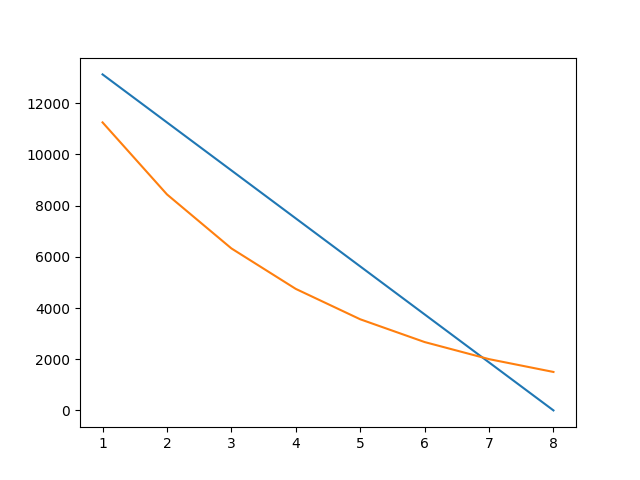
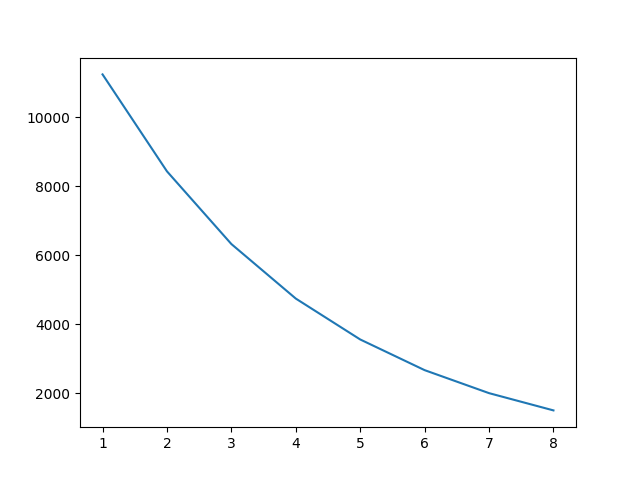
Файлы лаба3

diff --git a/main.py b/main.py
@@ -251,7 +251,112 @@ import os
 Sec_Korneev_2=os.environ['Sec_Korneev_2']
 print(Sec_Korneev_2)
 
+#Задание 2 (вариант 6)
+from sympy import *
 
-import os
-Sec_Korneev_3=os.environ['Sec_Korneev_3']
-print(Sec_Korneev_3)
+k, T, C, L = symbols('k C T L')
+
+C_ost_4 = 15000
+Am_lst_4 = []
+C_ost_lst_4 = []
+for i in range(8):
+    Am = (C - L) / T
+    C_ost_4 -= Am.subs({C: 15000, T: 8, L: 0})
+    Am_lst_4.append(round(Am.subs({C: 15000, T: 8, L: 0}), 2))
+    C_ost_lst_4.append(round(C_ost_4, 2))
+print('Am_lst_4:', Am_lst_4)
+print('C_ost_lst_4:', C_ost_lst_4)
+
+#2-ой способ 
+Aj = 0
+C_ost_4 = 15000
+Am_lst_2_4 = []
+C_ost_lst_2_4 = []
+for i in range(8):
+    Am = k * 1 / T * (C - Aj)
+    C_ost_4 -= Am.subs({C: 15000, T: 8, k: 2})
+    Am_lst_2_4.append(round(Am.subs({C: 15000, T: 8, k: 2}), 2))
+    Aj += Am
+    C_ost_lst_2_4.append(round(C_ost_4, 2))
+print('Am_lst_2_4:', Am_lst_2_4)
+print('C_ost_lst_2_4:', C_ost_lst_2_4)
+
+#Таблица 
+import pandas as pd
+
+Y = range(1, 9)
+table1 = list(zip(Y, C_ost_lst_4, Am_lst_4))
+table2 = list(zip(Y, C_ost_lst_2_4, Am_lst_2_4))
+tframe = pd.DataFrame(table1, columns=['Y', 'C_ost_lst_4', 'Am_lst_4'])
+tframe2 = pd.DataFrame(table2, columns=['Y', 'C_ost_lst_2_4', 'Am_lst_2_4'])
+print(tframe)#Что делает? Выводит содержимое переменной - ответила Вагизова
+print(tframe2)
+
+#Визуализация 
+import numpy as np
+import matplotlib.pyplot as plt
+
+plt.figure()
+plt.plot(tframe['Y'], tframe['C_ost_lst_4'], label='Am')
+plt.savefig('chart7.png')
+plt.figure()
+plt.plot(tframe2['Y'], tframe2['C_ost_lst_2_4'], label='Am_2')
+plt.savefig('chart8.png')#Что делает? Сохраняет текущий график - ответила Вагизова
+
+#Круговая диаграмма 
+vals = Am_lst_4
+labels = [str(x) for x in range(1, 9)]
+explode = (0.1, 0.1, 0.1, 0.1, 0.1, 0.1, 0.1,0.1)
+fig, ax = plt.subplots()
+ax.pie(vals,
+       labels=labels,
+       autopct='%1.1f%%',
+       shadow=True,
+       explode=explode,
+       wedgeprops={
+           'lw': 1,
+           'ls': '--',
+           'edgecolor': "k"
+       },
+       rotatelabels=True)
+ax.axis("equal")
+plt.savefig('chart9.png') 
+
+#Круговая диаграмма (данные от 2-го способа)
+vals = Am_lst_2_4
+labels = [str(x) for x in range(1, 9)]
+explode = (0.1, 0.1, 0.1, 0.1, 0.1, 0.1, 0.1,0.1)
+fig, ax = plt.subplots()
+ax.pie(vals,
+       labels=labels,
+       autopct='%1.1f%%',
+       shadow=True,
+       explode=explode,
+       wedgeprops={
+           'lw': 1,
+           'ls': '--',
+           'edgecolor': "k"
+       },
+       rotatelabels=True)
+ax.axis("equal")
+plt.savefig('chart10.png')
+
+#Гистограмма (индивидуальное задание)
+table1 = list(zip(Y, Am_lst_4))
+table2 = list(zip(Y, Am_lst_2_4))
+tframe = pd.DataFrame(table1, columns=['Y', 'Am_lst_4'])#Что это? использование библиотеки pandas - ответила Вагизова
+tframe2 = pd.DataFrame(table2, columns=['Y', 'Am_lst_2_4'])
+
+plt.figure()
+plt.bar(tframe['Y'], tframe['Am_lst_4'])
+plt.savefig('chart11.png')
+
+plt.figure()
+plt.bar(tframe2['Y'], tframe2['Am_lst_2_4'])
+plt.savefig('chart12.png')
+#Проверила Вагизова К.Х. 
+# 5 из 5
+#Индивидуальное задание лаба 3
+# cloud_failure_detector.py
+# Микросервис для обнаружения отказов в облачной инфраструктуре
+# Лабораторная работа 1 - индивидуальное задание 
